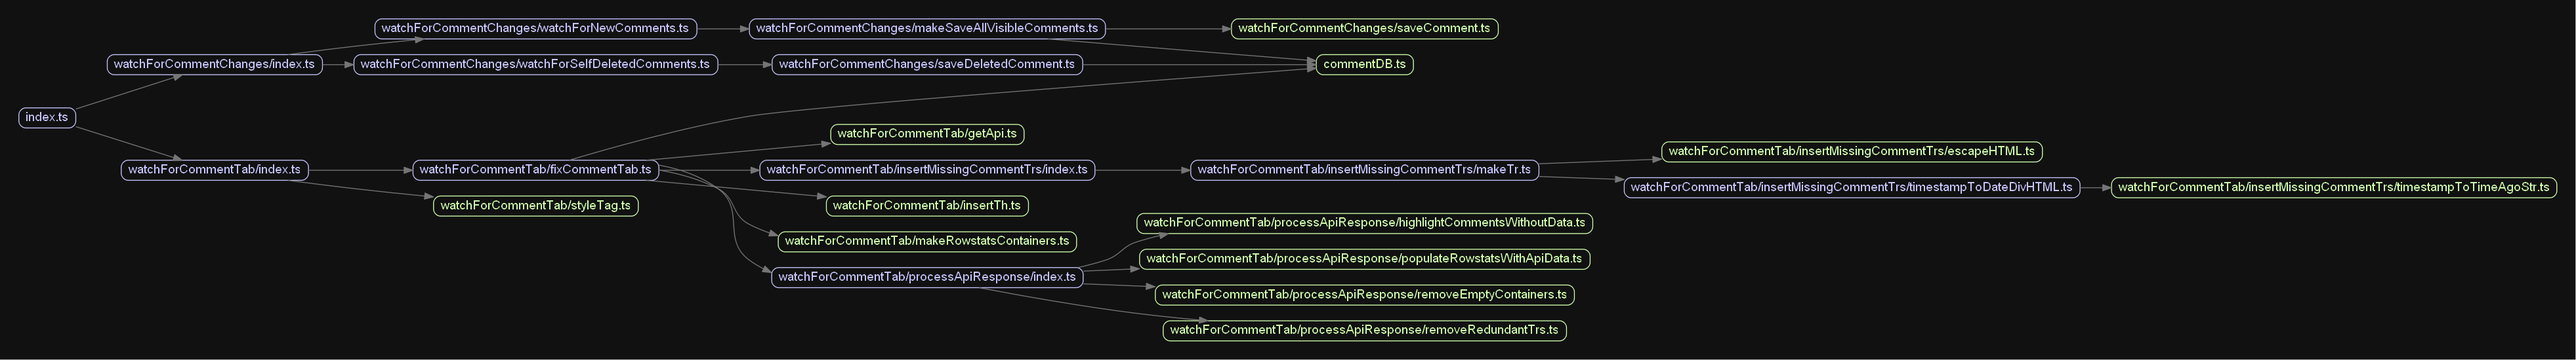
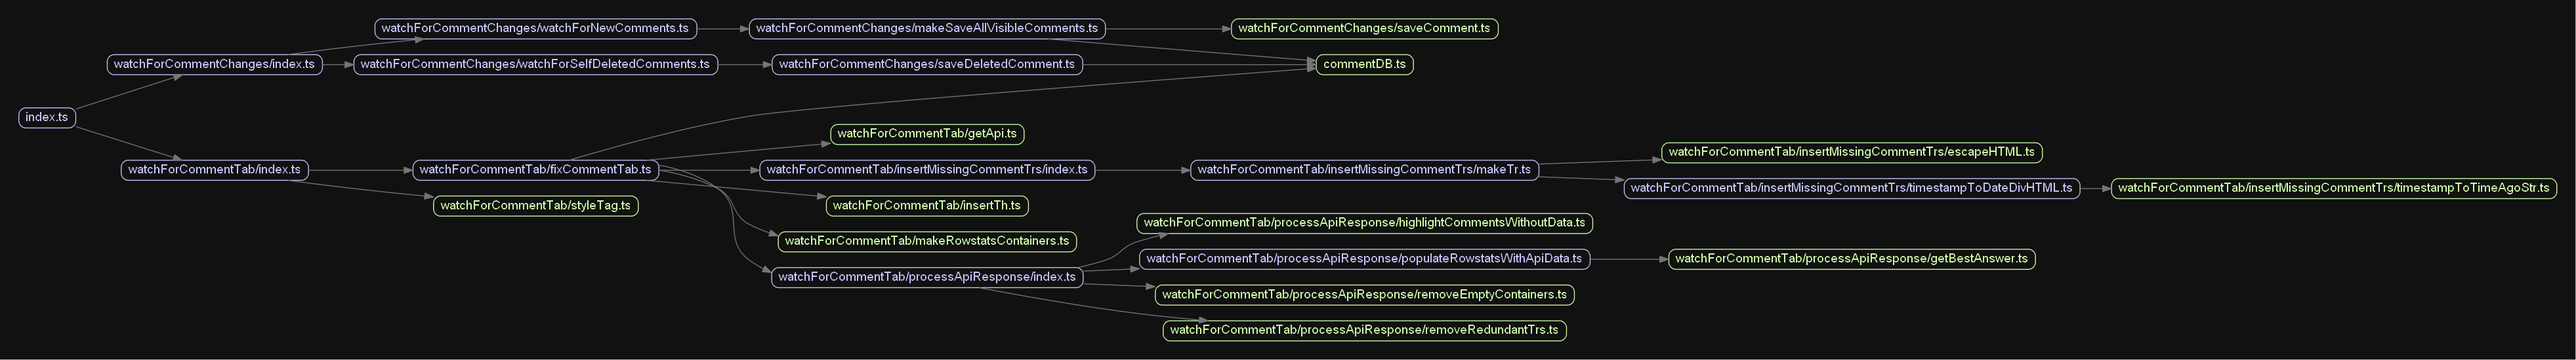
Removed unnecessary code, better organization

Changed region(s): [[0.6215, 0.3709, 0.9944, 0.5564], [0.435, 0.68, 0.8079, 0.7727]]

diff --git a/Comment-History-Checker/dist/StackCommentHistoryChecker.user.js b/Comment-History-Checker/dist/StackCommentHistoryChecker.user.js
@@ -3,7 +3,7 @@
 // @description      Review the status and reception of your comments and their parent posts
 // @author           CertainPerformance
 // @namespace        https://github.com/CertainPerformance/Stack-Exchange-Userscripts
-// @version          1.0.0
+// @version          1.0.1
 // @include          /^https://(?:[^/]+\.)?(?:(?:stackoverflow|serverfault|superuser|stackexchange|askubuntu|stackapps)\.com|mathoverflow\.net)/(?:users/.*\?tab=activity|questions/\d|review/[^/]+(?:/\d+|$))/
 // @grant            none
 // ==/UserScript==
@@ -238,7 +238,6 @@ exports.makeSaveAllVisibleComments = (userHref) => async () => {
 
 Object.defineProperty(exports, "__esModule", { value: true });
 const commentHrefToIds_1 = __webpack_require__(/*! ../commentHrefToIds */ "./build/commentHrefToIds.js");
-const anchorExists = (element) => Boolean(element);
 /**
  * Saves the comment surrounding this anchor in the database
  * @returns True if the database was changed, otherwise false
@@ -248,13 +247,15 @@ exports.saveComment = (userCommentAnchor, savedComments) => {
     const timestamp = new Date(dateElm.title).getTime();
     const commentHTML = userCommentAnchor.closest('.comment-body').children[0].innerHTML;
     const questionAnchor = document.querySelector('#question-header > h1 > a');
-    if (!anchorExists(questionAnchor)) {
+    if (!questionAnchor) {
         // Spam/rude question - it's likely already in the database, just don't try to update it
         return false;
     }
     const questionTitle = questionAnchor.textContent;
+    // Cannot just use .href  of the comment-link below,
+    // because there may be a query string which comes between the /question-title and the #commentID_postID
     const commentHrefAttrib = userCommentAnchor.parentElement.querySelector('a.comment-link').getAttribute('href');
-    const commentHref = questionAnchor.href + commentHrefAttrib;
+    const commentHref = window.location.origin + window.location.pathname + commentHrefAttrib;
     const { commentId } = commentHrefToIds_1.commentHrefToIds(commentHref);
     const newCommentObj = {
         commentHTML,
@@ -788,6 +789,31 @@ exports.makeRowstatsContainers = () => {
 
 /***/ }),
 
+/***/ "./build/watchForCommentTab/processApiResponse/getBestAnswer.js":
+/*!**********************************************************************!*\
+  !*** ./build/watchForCommentTab/processApiResponse/getBestAnswer.js ***!
+  \**********************************************************************/
+/*! no static exports found */
+/***/ (function(module, exports, __webpack_require__) {
+
+"use strict";
+
+Object.defineProperty(exports, "__esModule", { value: true });
+exports.getBestAnswer = (answers) => {
+    if (!answers.length) {
+        return null;
+    }
+    const acceptedAnswer = answers.find(({ is_accepted }) => is_accepted);
+    if (acceptedAnswer) {
+        return acceptedAnswer;
+    }
+    const highestScoreAnswer = answers.reduce((a, answer) => (answer.score > a.score ? answer : a));
+    return highestScoreAnswer;
+};
+
+
+/***/ }),
+
 /***/ "./build/watchForCommentTab/processApiResponse/highlightCommentsWithoutData.js":
 /*!*************************************************************************************!*\
   !*** ./build/watchForCommentTab/processApiResponse/highlightCommentsWithoutData.js ***!
@@ -874,17 +900,7 @@ exports.processApiResponse = ([questionData, commentData], rowstatsContainersByI
 "use strict";
 
 Object.defineProperty(exports, "__esModule", { value: true });
-const getBestAnswer = (answers) => {
-    if (!answers.length) {
-        return null;
-    }
-    const acceptedAnswer = answers.find(({ is_accepted }) => is_accepted);
-    if (acceptedAnswer) {
-        return acceptedAnswer;
-    }
-    const highestScoreAnswer = answers.reduce((a, answer) => (answer.score > a.score ? answer : a));
-    return highestScoreAnswer;
-};
+const getBestAnswer_1 = __webpack_require__(/*! ./getBestAnswer */ "./build/watchForCommentTab/processApiResponse/getBestAnswer.js");
 exports.populateRowstatsWithApiData = (questionData, commentData, rowstatsContainersByIds) => {
     /* Insert question scores (for all rows),
      * question acceptance attribute,
@@ -909,7 +925,7 @@ exports.populateRowstatsWithApiData = (questionData, commentData, rowstatsContai
             if (closed_reason && !commentAnchor.textContent.endsWith(']')) {
                 commentAnchor.innerHTML += ` [${closed_reason}]`;
             }
-            const bestAnswer = getBestAnswer(answers);
+            const bestAnswer = getBestAnswer_1.getBestAnswer(answers);
             if (bestAnswer && bestAnswer.is_accepted) {
                 questionBox.setAttribute('data-cpuserscript-accepted', '');
             }
@@ -1051,7 +1067,7 @@ exports.styleTag.textContent = styleText_css_1.default;
 
 "use strict";
 __webpack_require__.r(__webpack_exports__);
-/* harmony default export */ __webpack_exports__["default"] = (".history-table > thead {\n  padding-bottom: 40px; }\n  .history-table > thead th {\n    padding: 5px;\n    text-align: center; }\n  .history-table > thead th:nth-child(3) > div {\n    margin-left: 70px;\n    display: grid; }\n    .history-table > thead th:nth-child(3) > div > div:nth-child(2) {\n      grid-column: 2 / 3; }\n\n.history-table [data-cpuserscript-rowstats] {\n  width: 120px;\n  display: grid;\n  grid-column-gap: 3px;\n  grid-template-rows: 23px;\n  grid-template-columns: 36px 36px; }\n  .history-table [data-cpuserscript-rowstats] > [data-cpuserscript-qa-box] {\n    border-width: 1px;\n    border-color: #b9b9b9;\n    text-align: center; }\n    .history-table [data-cpuserscript-rowstats] > [data-cpuserscript-qa-box][data-cpuserscript-parent-post] {\n      border-style: solid; }\n    .history-table [data-cpuserscript-rowstats] > [data-cpuserscript-qa-box]:not([data-cpuserscript-parent-post]) {\n      opacity: 0.5;\n      border-style: dotted; }\n    .history-table [data-cpuserscript-rowstats] > [data-cpuserscript-qa-box][data-cpuserscript-accepted] {\n      border-color: #5fba7d;\n      background: #5fba7d;\n      color: #fff; }\n  .history-table [data-cpuserscript-rowstats] > [data-cpuserscript-comment-score] {\n    grid-column: 3 / 4;\n    grid-row: 1 / 2;\n    justify-self: end; }\n  .history-table [data-cpuserscript-rowstats] > [data-cpuserscript-more-answers] {\n    grid-column: 2 / 3;\n    grid-row: 2 / 3;\n    justify-self: start; }\n    .history-table [data-cpuserscript-rowstats] > [data-cpuserscript-more-answers] > span {\n      position: absolute;\n      font-size: smaller; }\n\n.history-table [data-cpuserscript-unverified-trailing-row] {\n  display: none; }\n\n.history-table [data-cpuserscript-post-removed] {\n  background-color: #f4eaea; }\n\n.history-table [data-cpuserscript-duplicate-removed] {\n  background-color: #d3ffc9; }\n\n.history-table [data-cpuserscript-self-deleted] {\n  background-color: #ffffcc; }\n\n.history-table [data-cpuserscript-comment-removed] {\n  background-color: #e58080; }\n");
+/* harmony default export */ __webpack_exports__["default"] = (".history-table > thead th {\n  padding: 5px;\n  text-align: center; }\n\n.history-table > thead th:nth-child(3) > div {\n  margin-left: 70px;\n  display: grid; }\n  .history-table > thead th:nth-child(3) > div > div:nth-child(2) {\n    grid-column: 2 / 3; }\n\n.history-table [data-cpuserscript-rowstats] {\n  width: 120px;\n  display: grid;\n  grid-column-gap: 3px;\n  grid-template-rows: 23px;\n  grid-template-columns: 36px 36px; }\n  .history-table [data-cpuserscript-rowstats] > [data-cpuserscript-qa-box] {\n    border-width: 1px;\n    border-color: #b9b9b9;\n    text-align: center; }\n    .history-table [data-cpuserscript-rowstats] > [data-cpuserscript-qa-box][data-cpuserscript-parent-post] {\n      border-style: solid; }\n    .history-table [data-cpuserscript-rowstats] > [data-cpuserscript-qa-box]:not([data-cpuserscript-parent-post]) {\n      opacity: 0.5;\n      border-style: dotted; }\n    .history-table [data-cpuserscript-rowstats] > [data-cpuserscript-qa-box][data-cpuserscript-accepted] {\n      border-color: #5fba7d;\n      background: #5fba7d;\n      color: #fff; }\n  .history-table [data-cpuserscript-rowstats] > [data-cpuserscript-comment-score] {\n    grid-column: 3 / 4;\n    grid-row: 1 / 2;\n    justify-self: end; }\n  .history-table [data-cpuserscript-rowstats] > [data-cpuserscript-more-answers] {\n    grid-column: 2 / 3;\n    grid-row: 2 / 3;\n    justify-self: start; }\n    .history-table [data-cpuserscript-rowstats] > [data-cpuserscript-more-answers] > span {\n      position: absolute;\n      font-size: smaller; }\n\n.history-table [data-cpuserscript-unverified-trailing-row] {\n  display: none; }\n\n.history-table [data-cpuserscript-post-removed] {\n  background-color: #f4eaea; }\n\n.history-table [data-cpuserscript-duplicate-removed] {\n  background-color: #d3ffc9; }\n\n.history-table [data-cpuserscript-self-deleted] {\n  background-color: #ffffcc; }\n\n.history-table [data-cpuserscript-comment-removed] {\n  background-color: #e58080; }\n");
 
 /***/ }),
 

diff --git a/Comment-History-Checker/src/watchForCommentChanges/saveComment.ts b/Comment-History-Checker/src/watchForCommentChanges/saveComment.ts
@@ -1,6 +1,5 @@
 import { commentHrefToIds } from '../commentHrefToIds';
 
-const anchorExists = (element: Element | null): element is HTMLAnchorElement => Boolean(element);
 /**
  * Saves the comment surrounding this anchor in the database
  * @returns True if the database was changed, otherwise false
@@ -10,13 +9,15 @@ export const saveComment = (userCommentAnchor: HTMLAnchorElement, savedComments:
     const timestamp = new Date(dateElm.title).getTime();
     const commentHTML = userCommentAnchor.closest('.comment-body')!.children[0].innerHTML;
     const questionAnchor = document.querySelector('#question-header > h1 > a');
-    if (!anchorExists(questionAnchor)) {
+    if (!questionAnchor) {
         // Spam/rude question - it's likely already in the database, just don't try to update it
         return false;
     }
     const questionTitle = questionAnchor.textContent!;
+    // Cannot just use .href  of the comment-link below,
+    // because there may be a query string which comes between the /question-title and the #commentID_postID
     const commentHrefAttrib = userCommentAnchor.parentElement!.querySelector('a.comment-link')!.getAttribute('href')!;
-    const commentHref = questionAnchor.href + commentHrefAttrib;
+    const commentHref = window.location.origin + window.location.pathname + commentHrefAttrib;
     const { commentId } = commentHrefToIds(commentHref);
     const newCommentObj = {
         commentHTML,

diff --git a/Comment-History-Checker/src/types.d.ts b/Comment-History-Checker/src/types.d.ts
@@ -1,3 +1,10 @@
+type StackExchange = {
+    ready: (callback: () => void) => void;
+    options: {
+        serverTimeOffsetSec: number;
+    }
+};
+
 type SavedComment = Readonly<{
     commentHTML: string;
     commentHref: string;
@@ -7,12 +14,6 @@ type SavedComment = Readonly<{
 }>;
 type SavedComments = {
     [commentId: number]: SavedComment;
-};
-type StackExchange = {
-    ready: (callback: () => void) => void;
-    options: {
-        serverTimeOffsetSec: number;
-    }
 };
 type ApiComment = Readonly<{
     score: number;
@@ -29,7 +30,6 @@ type ApiAnswer = Readonly<{
 }>;
 type ApiQuestion = Readonly<{
     score: number;
-    last_activity_date: number;
     question_id: number;
     closed_reason?: string;
     answers?: ApiAnswer[];

diff --git a/Comment-History-Checker/src/watchForCommentTab/processApiResponse/populateRowstatsWithApiData.ts b/Comment-History-Checker/src/watchForCommentTab/processApiResponse/populateRowstatsWithApiData.ts
@@ -1,16 +1,4 @@
-const getBestAnswer = (answers: ApiAnswer[]) => {
-    if (!answers.length) {
-        return null;
-    }
-    const acceptedAnswer = answers.find(({ is_accepted }) => is_accepted);
-    if (acceptedAnswer) {
-        return acceptedAnswer;
-    }
-    const highestScoreAnswer = answers.reduce((a, answer) => (
-        answer.score > a.score ? answer : a
-    ));
-    return highestScoreAnswer;
-};
+import { getBestAnswer } from './getBestAnswer';
 
 export const populateRowstatsWithApiData = (questionData: ApiQuestions, commentData: ApiComments, rowstatsContainersByIds: RowstatsContainersByIds) => {
     /* Insert question scores (for all rows),

diff --git a/Comment-History-Checker/src/watchForCommentTab/getApi.ts b/Comment-History-Checker/src/watchForCommentTab/getApi.ts
@@ -1,6 +1,6 @@
 const filters = {
     comments: '!SWJ_S9Hse(rWelcqk1', // wrapper.items, comment -> { score, comment_id })
-    questions: '!5RCI6qPDF8)WPM-vVxWYF-1w0', // wrapper.items, question -> { answers, closed_reason, question_id, score }, answer -> { score, accepted, answer_id }
+    questions: '!5RCI6qPDF8)WPM-vVxWYF-1w0', // wrapper.items, question -> { answers, closed_reason, question_id, score }, answer -> { score, is_accepted, answer_id }
 };
 const thisSite = window.location.hostname
     .replace(/\.\w+$/, '') // Remove the TLD (.com, .net, ...)

diff --git a/Comment-History-Checker/src/userscript-metadata-block.js b/Comment-History-Checker/src/userscript-metadata-block.js
@@ -3,7 +3,7 @@
 // @description      Review the status and reception of your comments and their parent posts
 // @author           CertainPerformance
 // @namespace        https://github.com/CertainPerformance/Stack-Exchange-Userscripts
-// @version          1.0.0
+// @version          1.0.1
 // @include          /^https://(?:[^/]+\.)?(?:(?:stackoverflow|serverfault|superuser|stackexchange|askubuntu|stackapps)\.com|mathoverflow\.net)/(?:users/.*\?tab=activity|questions/\d|review/[^/]+(?:/\d+|$))/
 // @grant            none
 // ==/UserScript==

diff --git a/Comment-History-Checker/src/watchForCommentTab/processApiResponse/getBestAnswer.ts b/Comment-History-Checker/src/watchForCommentTab/processApiResponse/getBestAnswer.ts
@@ -1,0 +1,13 @@
+export const getBestAnswer = (answers: ApiAnswer[]) => {
+    if (!answers.length) {
+        return null;
+    }
+    const acceptedAnswer = answers.find(({ is_accepted }) => is_accepted);
+    if (acceptedAnswer) {
+        return acceptedAnswer;
+    }
+    const highestScoreAnswer = answers.reduce((a, answer) => (
+        answer.score > a.score ? answer : a
+    ));
+    return highestScoreAnswer;
+};

diff --git a/Comment-History-Checker/src/watchForCommentTab/styleText.scss b/Comment-History-Checker/src/watchForCommentTab/styleText.scss
@@ -1,8 +1,6 @@
 // Use data attributes to reduce chance of accidentally interfering with any CSS or JS on the page
 .history-table {
     > thead {
-        padding-bottom: 40px;
-
         th {
             padding: 5px;
             text-align: center;
